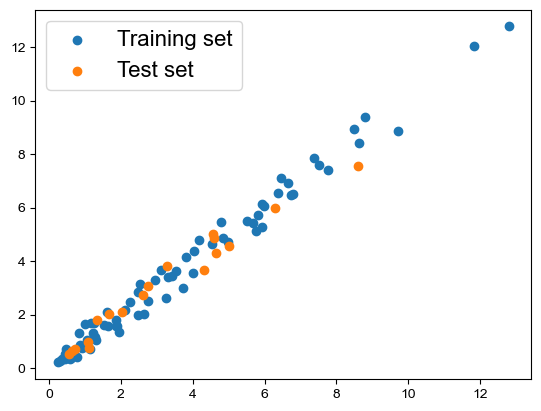
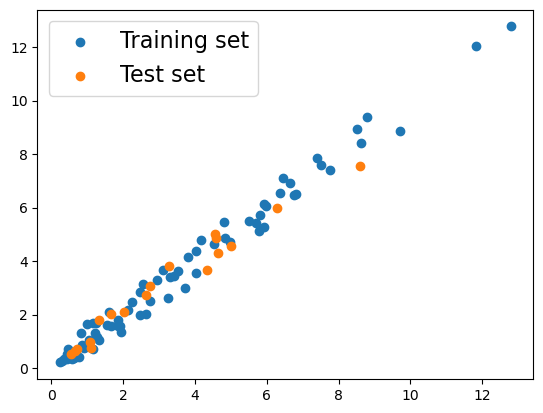
build

diff --git a/_build/html/examples/pattern_search.html b/_build/html/examples/pattern_search.html
@@ -459,7 +459,7 @@ title="Print to PDF"
 <span class="kn">from</span> <span class="nn">sklearn.utils</span> <span class="kn">import</span> <span class="n">shuffle</span>
 
 <span class="o">%</span><span class="k">matplotlib</span> inline
-<span class="n">plt</span><span class="o">.</span><span class="n">rcParams</span><span class="p">[</span><span class="s2">&quot;font.family&quot;</span><span class="p">]</span> <span class="o">=</span> <span class="s1">&#39;Arial&#39;</span>
+<span class="c1"># plt.rcParams[&quot;font.family&quot;] = &#39;Arial&#39;</span>
 <span class="n">np</span><span class="o">.</span><span class="n">set_printoptions</span><span class="p">(</span><span class="n">suppress</span><span class="o">=</span><span class="kc">True</span><span class="p">)</span>
 </pre></div>
 </div>
@@ -469,7 +469,7 @@ title="Print to PDF"
 <div class="cell_input docutils container">
 <div class="highlight-ipython3 notranslate"><div class="highlight"><pre><span></span><span class="c1"># # please uncomment these two lines, if you run this code in Colab</span>
 <span class="c1"># !git clone https://github.com/xiaoyuxie-vico/PyDimension-Book</span>
-<span class="c1"># !cd PyDimension-Book/examples</span>
+<span class="c1"># %cd PyDimension-Book/examples</span>
 </pre></div>
 </div>
 </div>

diff --git a/_build/jupyter_execute/examples/pattern_search.py b/_build/jupyter_execute/examples/pattern_search.py
@@ -25,7 +25,7 @@ from sklearn.preprocessing import PolynomialFeatures
 from sklearn.utils import shuffle
 
 get_ipython().run_line_magic('matplotlib', 'inline')
-plt.rcParams["font.family"] = 'Arial'
+# plt.rcParams["font.family"] = 'Arial'
 np.set_printoptions(suppress=True)
 
 
@@ -34,7 +34,7 @@ np.set_printoptions(suppress=True)
 
 # # please uncomment these two lines, if you run this code in Colab
 # !git clone https://github.com/xiaoyuxie-vico/PyDimension-Book
-# !cd PyDimension-Book/examples
+# %cd PyDimension-Book/examples
 
 
 # ## Helper functions
